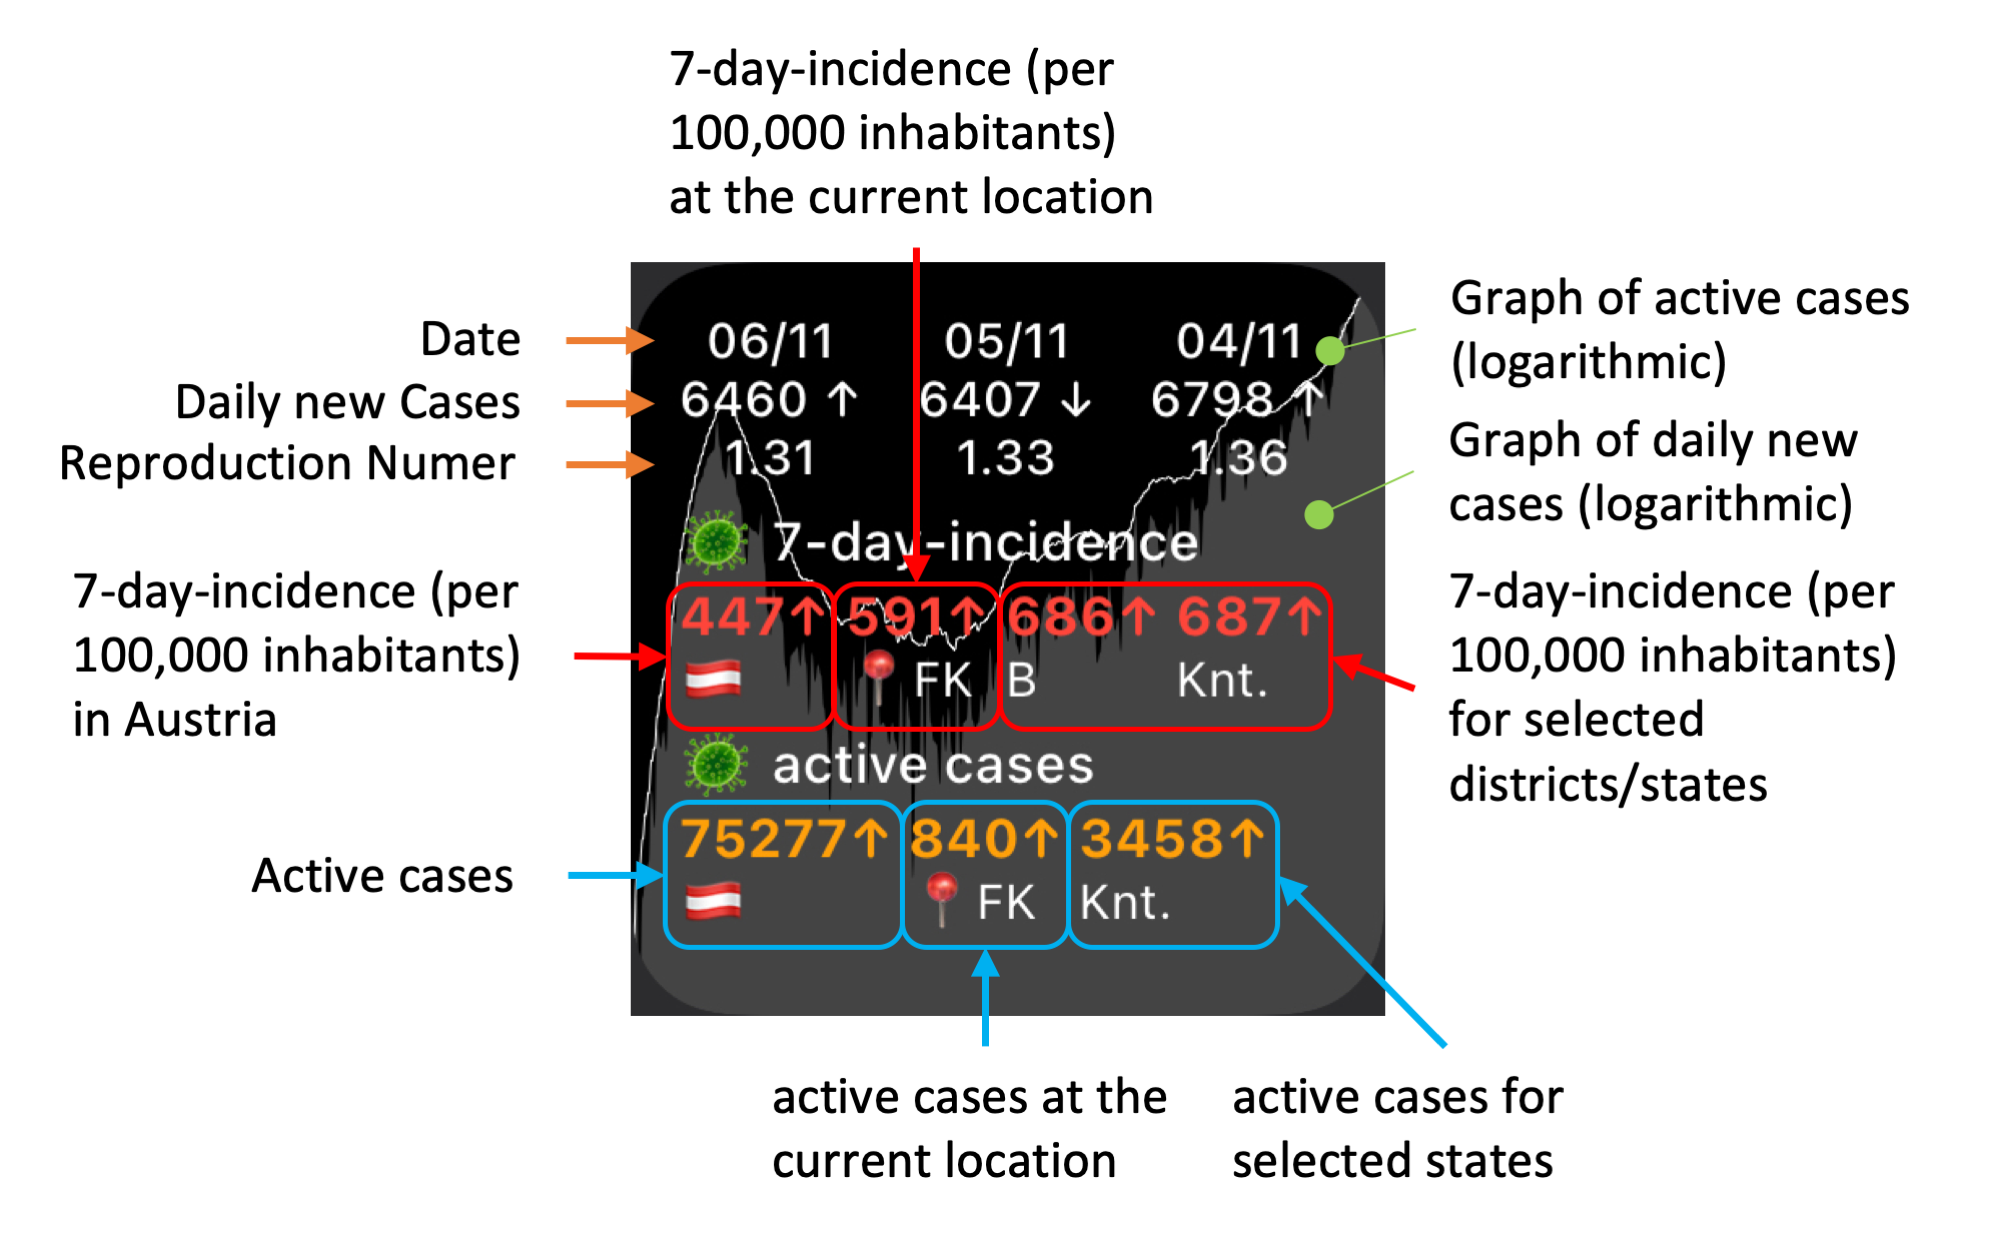
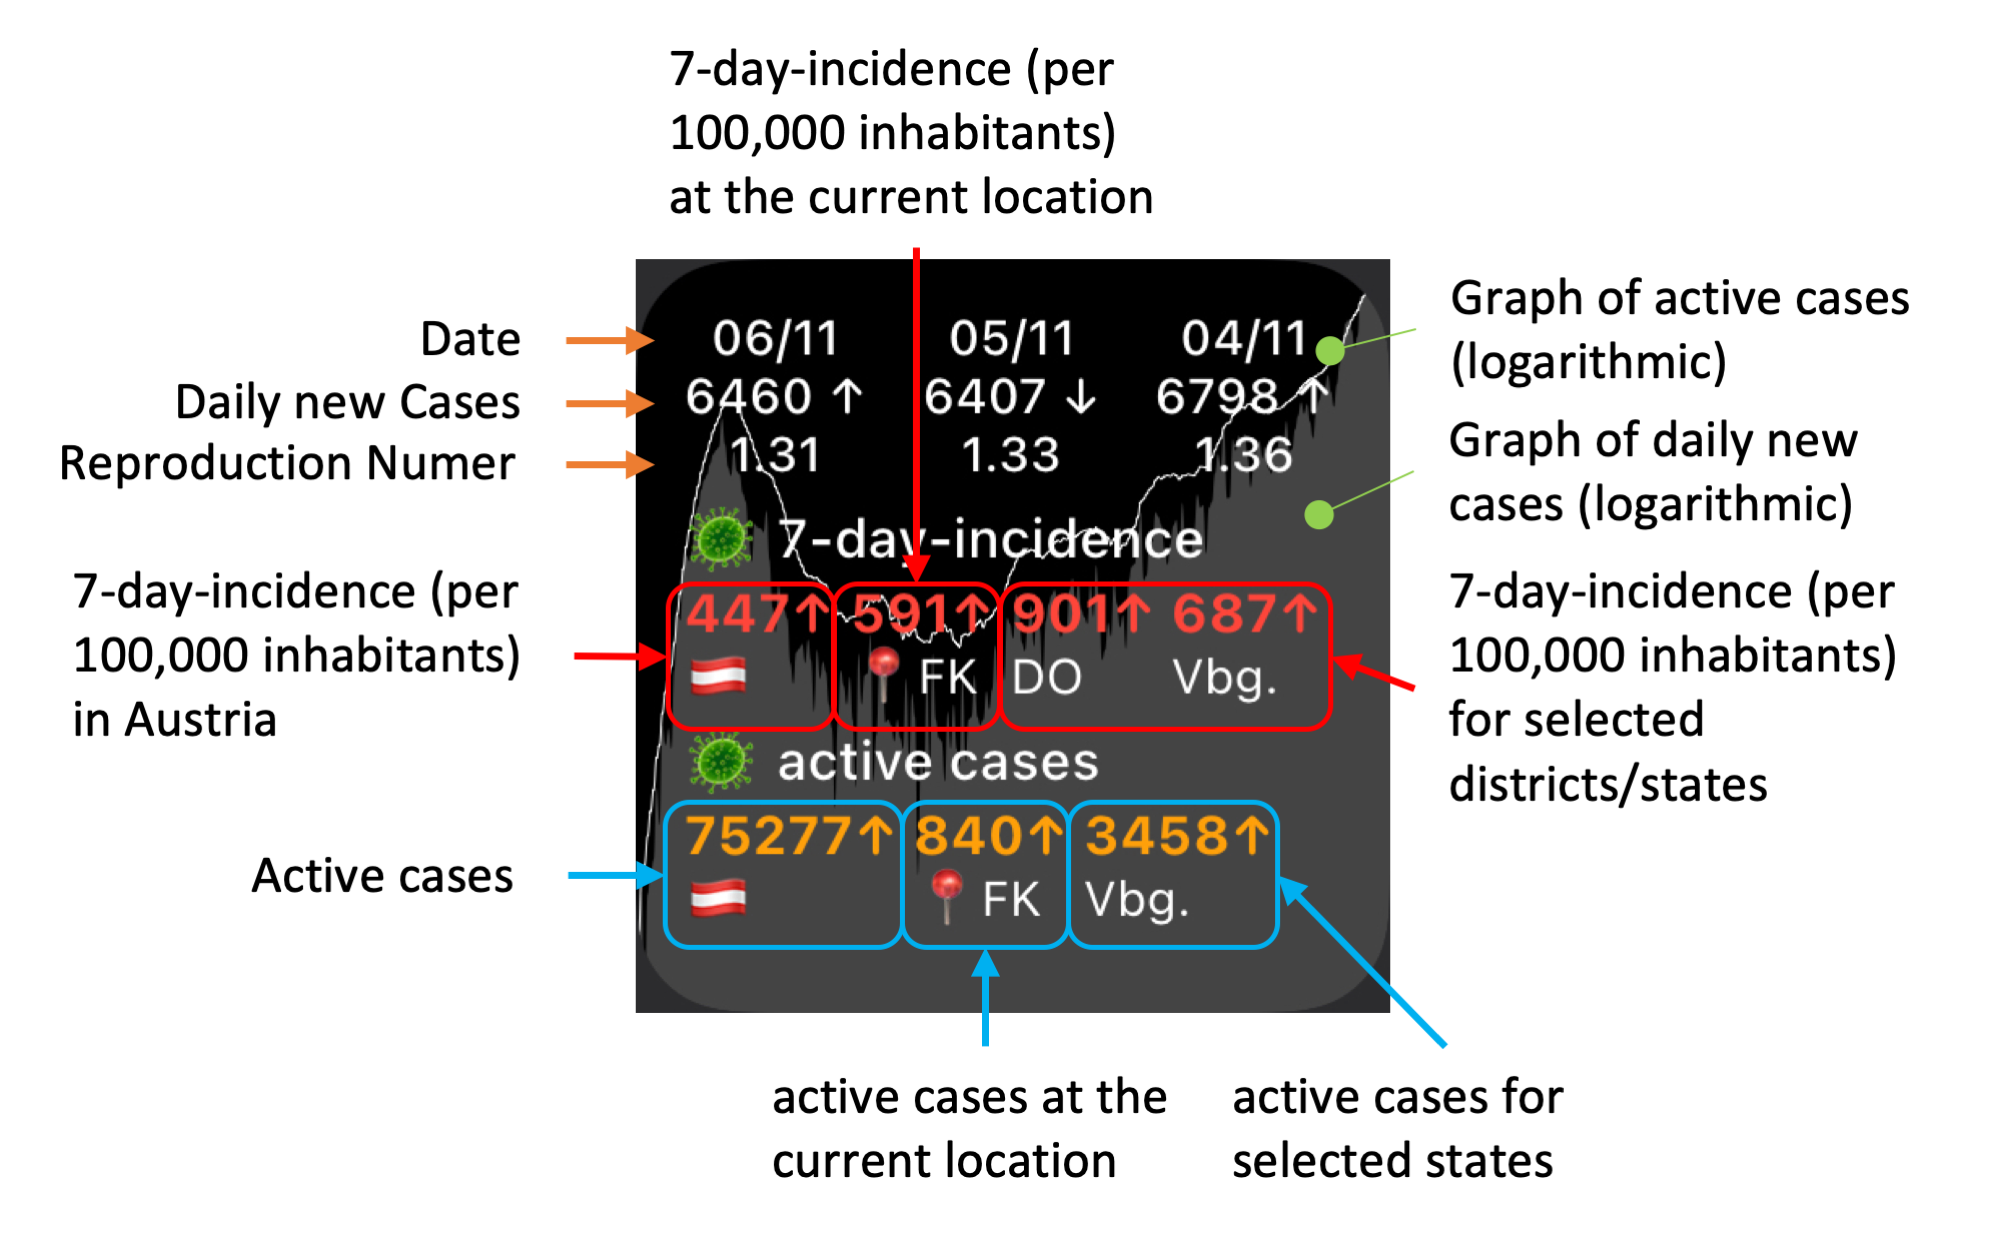
update readme
#4

Changed region(s): [[0.31, 0.1837, 0.713, 0.8268], [0.341, 0.1837, 0.434, 0.2143]]

diff --git a/README.md b/README.md
@@ -5,7 +5,7 @@ The COVID-19 widget shows the last three days of new cases and the associated R-
 
 # Setup
 * Enable the location service for the scriptable app, if you want to use automatic displaying of the current incident you are located.
-* If you like to specify your own disctricts or states, for example add following widget parameters: `204,KFL;312;706;8,Vbg.` for Klagenfurt Land (shown as `KFL`), Korneuburg, Landeck and the state Vorarlberg shown as `Vbg.`. The 3-digit GKZ can be found in the third row of https://covid19-dashboard.ages.at/data/CovidFaelle_Timeline_GKZ.csv. The state ID can be found here: https://covid19-dashboard.ages.at/data/CovidFaelle_Timeline.csv.
+* If you like to specify your own disctricts or states, for example add following widget parameters: `804,FK;803,DO;8,Vbg.` for Dornbirn (shown as `DO`), Felkirch (shown as `FK`) and the state Vorarlberg shown as `Vbg.`. The 3-digit GKZ can be found in the third row of https://covid19-dashboard.ages.at/data/CovidFaelle_Timeline_GKZ.csv. The state ID can be found here: https://covid19-dashboard.ages.at/data/CovidFaelle_Timeline.csv.
 
 # Data Sources
 https://covid19-dashboard.ages.at
